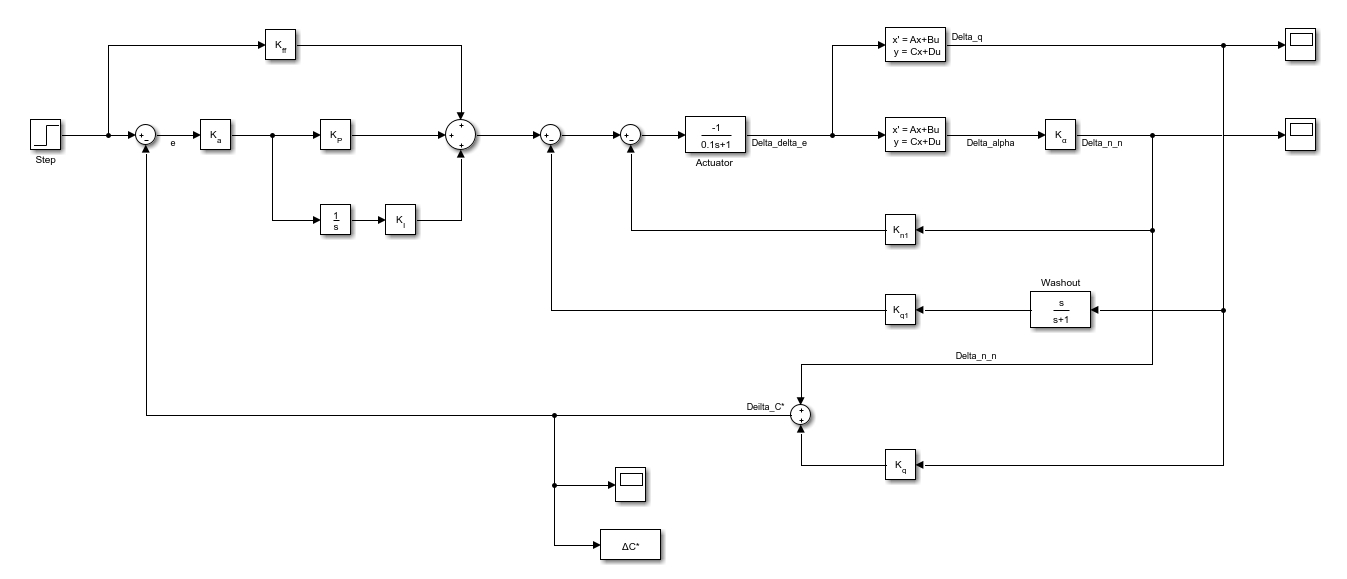
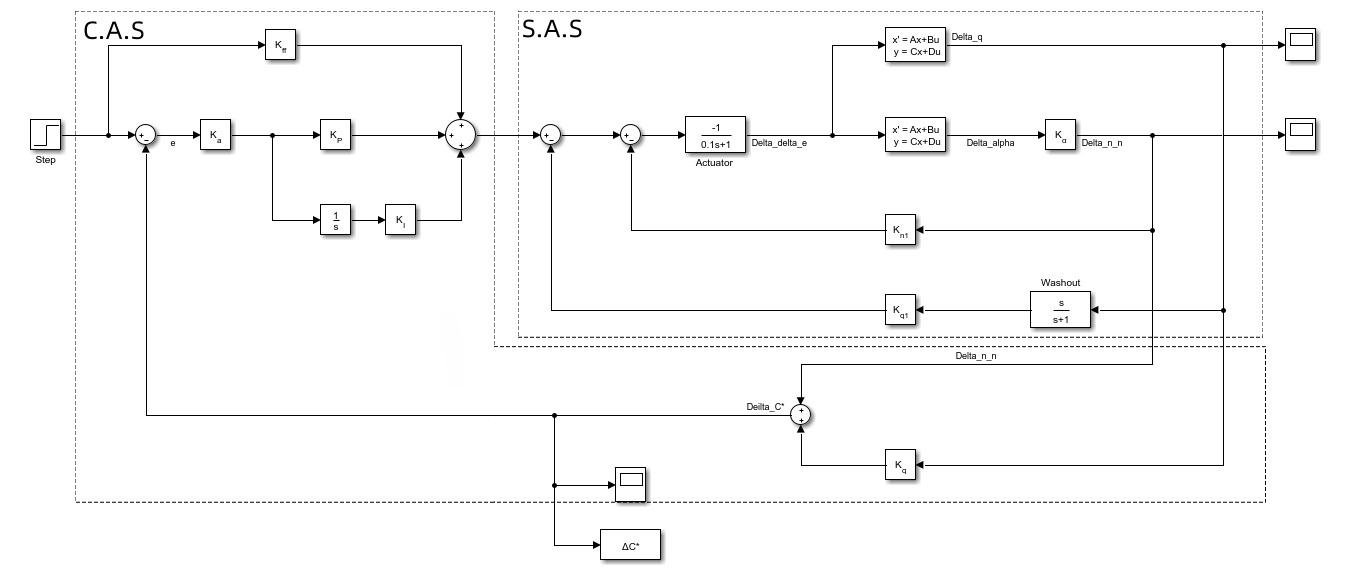
Update Readme and img file

Changed region(s): [[0.3742, 0.0311, 0.4365, 0.0622], [0.0624, 0.0311, 0.1247, 0.0622]]

diff --git a/README.md b/README.md
@@ -160,27 +160,53 @@ $\Delta n_n = \frac{C_{L\alpha} q S \Delta \alpha}{W}$<br>
 
 $\Delta C^* = \Delta n_n +\frac{V_{\mathrm{co}}}{g} \Delta q$<br>
 
+控制系统由增稳系统 S.A.S 与控制增强系统 C.A.S构成
+
++ S.A.S<br>
+
+  纵向增稳器采用法向过载作为反馈，放大器增益为 $K_{n1}$ <br>
+
+  俯仰阻尼器中，放大器增益为 $K_{q1}$，清洗网络时间常数设为 $1$<br>
+
++ C.A.S<br>
+
+  指令前馈补偿器中，放大器增益为 $K_{ff}$。前馈补偿器可通过增加相位来调节系统中的一个零点，同时不会改变系统的极点<br>
+
+  控制放大器增益为 $K_a$<br>
+
 在 Simulink 中建立如下控制系统<br>
 
-![alt](/img/shortPeriodSimulink.png)
+![alt](/img/shortPeriodSimulink.jpg)
 
 控制系统输出 $\Delta C^*$ 如下图所示<br>
 
-![alt](/img/Delta_C_star.png)
+![alt](/img/Delta_C_star.jpg)
+
+ $\Delta q$ 如下图所示
+
+![alt](/img/Delta_q.jpg)
 
 ### 根轨迹分析
 
-分析可得，系统开环传递函数为<br>
+暂时忽略前馈补偿器，取  $K_{n1} = 0.05, K_{q1} = 0.01, K_P = 0.001, K_I = 0.04$<br>
 
-$G_o(s) = K^* \frac{s^2 + 3.017s + 0.563}{s^4 +5.226s^3 + 14.065s^2 + 2.612s}$<br>
+由分析可得，系统开环传递函数为<br>
 
-其中， $K^*$ 为开环根轨迹增益<br>
+$G_{ol}(s) = K^* \frac{s^3 + 43.817s^2 + 155.497s + 112.68}{s^5 + 16.0256s^4 + 79.6081s^3 + 203.0028s^2 + 137.325s}$<br>
+
+$K^* = K_G^*  K_H^* = 1.4836 K_a K_H^* = 1.4836 K_a$<br>
+
+其中，$K^*$ 为开环根轨迹增益，$K_G^* $ 为前向通路根轨迹增益，$K_H^* $ 为反馈通路根轨迹增益，$K_a$ 为控制放大器增益<br>
 
 可绘制出系统根轨迹图如下<br>
 
-![alt](/img/rlocus.jpg)
+![alt](/img/rlocus1.jpg)
 
-由根轨迹图可知，当 $K^* > 0$ 时，根轨迹均位于左半 $s$ 平面，因此系统对所有 $K^*$ 增益都是稳定的
+![alt](/img/rlocus2.jpg)
+
+![alt](/img/rlocus3.jpg)
+
+由根轨迹图可知，当$0< K^* < 12.5$时，根轨迹均位于左半 $s$ 平面，此时系统稳定
 
 ### 稳定裕度分析
 
@@ -192,21 +218,25 @@ Bode 图如下所示<br>
 
 ![alt](/img/bode.jpg)
 
-幅值裕度将裕度趋于一个很大的值<br>
+幅值裕度为 $24.8$<br>
 
-相角裕度为 $50.68°$
+相角裕度为 $87.5°$
 
 ### 操纵品质分析
 
 (1) $CAP$ 指标
 
-取 $K_P = 0.5, K_I = 0.1$，可得开环根轨迹增益 $K^* = 14.84$，由根轨迹图可确定此时的闭环极点，并得到此时的短周期模态自然频率 $\omega_{n, sp} = 4.686$，短周期模态阻尼比 $\zeta_{n, sp} = 0.333$<br>
+取 $K_a = 0.35, K_{ff} = 0.03$，，可求得此时闭环传递函数为<br>
 
-操纵期望参数 $CAP = \frac{\omega_{\mathrm{n}, \mathrm{sp}}^2}{(V \star / g) Z_\alpha} = 1.978$<br>
+$G_{cl}(s) = \frac{45.03s^3 + 192.6s^2 + 206.1s + 58.51}{s^5 + 16.03s^4 + 80.14s^3 + 225.8s^2 + 218.2s + 58.54}$<br>
+
+并得到此时的短周期模态自然频率 $\omega_{n, sp} = 3.67$，短周期模态阻尼比 $\zeta_{n, sp} = 0.61$<br>
+
+操纵期望参数 $CAP = \frac{\omega_{\mathrm{n}, \mathrm{sp}}^2}{(V \star / g) Z_\alpha} = 1.21$<br>
 
 该项目主要对飞机巡航阶段的控制进行研究，因此飞机处于 B 种飞行阶段，相应的短周期操纵品质要求如下图所示<br>
 
-![alt](/img/CAP_CAT_B.jpg) 
+![alt](/img/CAP_CATB.jpg)
 
 从图中可以看出，该飞机在巡航阶段的操纵期望参数满足 1 级飞行品质要求<br>
 
@@ -214,7 +244,7 @@ Bode 图如下所示<br>
 
 输入为 $1g$ 时 $C^*$ 指标如下图所示，可以看出该飞机 $C^ *$ 指标满足包线约束<br>
 
-![alt](/img/C_star_index.png)
+![alt](/img/C_star_index.jpg)
 
 ### 时域特性分析
 
@@ -224,57 +254,59 @@ Bode 图如下所示<br>
 
 ![alt](/img/closed_loop_poles_zeros.jpg)
 
-系统共有4个闭环极点，包括2个实数极点与1对共轭极点<br>
+系统共有 5个闭环极点，包括 3 个实数极点与 1 对共轭极点<br>
 
-$(0.1998, 0)$<br>
+$P_1 (-0.4405, 0)$<br>
 
-$(-1.904, 0) $<br>
+$P_2 (-0.9783, 0) $<br>
 
-$(-1.561, 4.418)$<br>
+$P_3 ( -2.254, 2.893)$<br>
 
-$(-1.561, -4.418)$<br>
+$P_4 ( -2.254, -2.893)$<br>
 
-位于虚轴附近的闭环极点 $(0.1998, 0)$ 与闭环零点 $(2, 0)$ 距离过近，两者对于系统响应的影响会互相削弱。因此，系统响应主要由剩下的1个实数极点与1对共轭极点确定<br>
+$P_5 (-10.1, 0)$<br>
 
-设实数极点为 $p1 (-1.904, 0)$，对应一阶系统，时间常数 $T = \frac{1}{w} $<br>
+闭环零点共有 3 个<br>
 
-设共轭极点为 $p2(-1.561, 4.418) \ \ \ p3(-1.561, -4.418)$ ，对应欠阻尼系统，自然频率 $w_n = 4.686$，阻尼比 $\zeta = 0.333$<br>
+$Z_1 (-2.82, 0)$<br>
+
+$Z_2 (-1, 0)$<br>
+
+$Z_3 (-0.46, 0)$<br>
+
+位于虚轴附近的极点 $P_1$ 与零点 $Z_3$ ，极点 $P_2$ 与 零点$Z_2$ 分别距离过近，对于系统响应的影响会互相削弱。极点 $P_5$ 距 $P_3, P_4$ 相对较远。因此，系统响应主要由剩下共轭极点对 $P_3, P_4$ 与零点 $Z_1$ 确定<br>
+
+共轭极点 $P_3， P_4$ 对应欠阻尼系统，自然频率 $w_{n} = 3.67 $ ，阻尼比 $\zeta = 0.61$<br>
+
+闭环零点 $Z_1$ 对系统动态性能的影响主要为减小峰值时间，使系统响应速度加快， 但会使超调量增大<br>
 
 在输入为阶跃信号下<br>
 
 + 上升时间
 
-  一阶系统上升时间 $t_{r1} = 2.2 T = 1.55 \ s$<br>
+  欠阻尼系统上升时间 $t_{r}=\frac{\pi-arccos\zeta}{\omega_d} = 0.77 \ s$<br>
 
-  欠阻尼系统上升时间 $t_{r2}=\frac{\pi-arccos\zeta}{\omega_d} = 0.43 \ s$<br>
-
-  系统实际上升时间 $t_r = 0.38 \ s$
+  系统实际上升时间 $t_r = 0.31 \ s$<br>
 
 + 峰值时间
 
-  一阶系统不具有峰值时间<br>
+  欠阻尼系统峰值时间 $ t_{p2} = 1.09 \ s$<br>
 
-  欠阻尼系统峰值时间 $t_{p2} = 0.71 \ s$<br>
-
-  系统实际峰值时间 $t_p = 0.80 \ s$
+  系统实际峰值时间 $t_p = 0.74 \ s$<br>
 
 + 超调量
 
-  一阶系统不具有超调量<br>
+  欠阻尼系统超调量 $\sigma_2 \%=\mathrm{e}^{-\pi \zeta / \sqrt{1-\zeta^2}} \times 100 \% = 8.7\%$<br>
 
-  欠阻尼系统超调量 $\sigma_2 \\% = \mathrm{e}^{-\pi \zeta / \sqrt{1-\zeta^2}} \times 100 \\% = 32.96 \\% $<br>
-
-  系统实际超调量 $\sigma \\%= 13\\%$
+  系统实际超调量 $\sigma \%= 18 \%$<br>
 
 + 调节时间
 
-  一阶系统调节时间 $t_{s1} = 3 T =1.58 \ s$<br>
+  欠阻尼系统调节时间 $t_{s2} = \frac{3.5}{\zeta \omega_n} = 1.55 \ s$<br>
 
-  欠阻尼系统调节时间 $t_{s2} = \frac{3.5}{\zeta \omega_n} = 2.24 \ s$<br>
+  系统实际调节时间 $t_s = 2.45 \ s$<br>
 
-  系统实际调节时间 $t_s = 1.85 \ s$
-
-（2）稳态性能指标
+（2）稳态性能指标<br>
 
 开环系统在坐标原点有一个极点， 所以系统属 I 型系统，因而系统可以无误差跟踪阶跃信号
 
